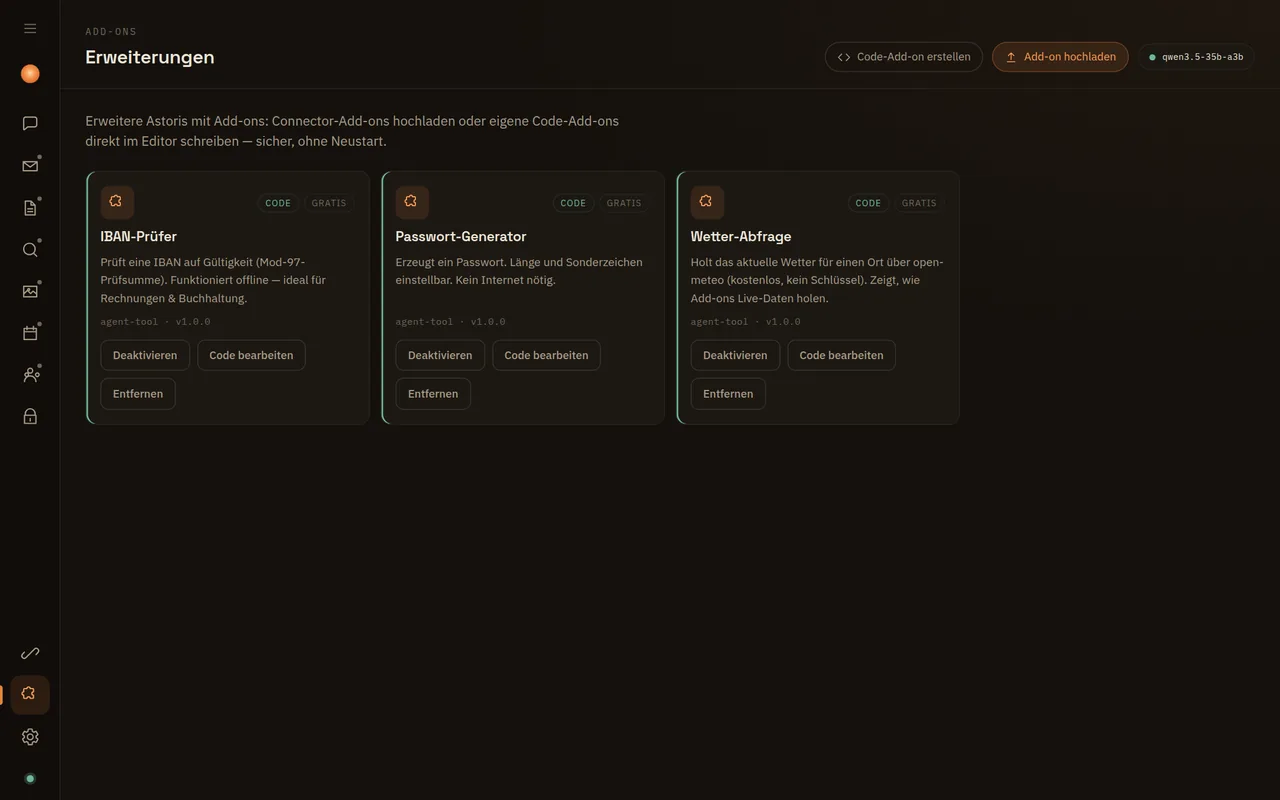
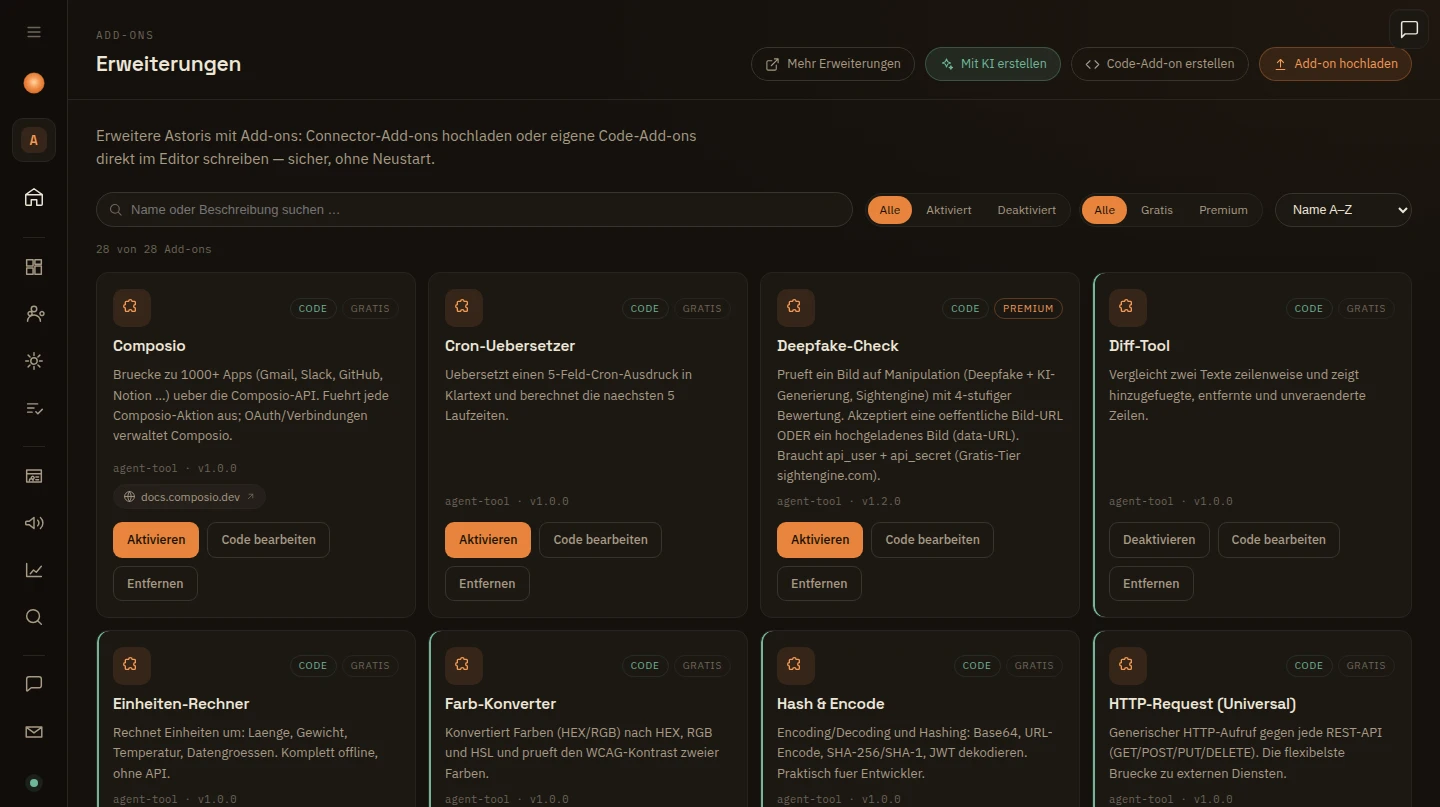
README: aktuelle Screenshots (Cockpit, Selbstentwicklung, Assistent, Erweiterungen)
Frische Screenshots mit aktuellem Stand: neues Cockpit- + Selbstentwicklungs-Bild
für die neuen Abschnitte, Chat- + Erweiterungen-Bild aktualisiert. Demo-Firma
bereinigt (Astoris Demo, Umlaute gefixt).

diff --git a/README.md b/README.md
@@ -79,6 +79,8 @@ Astoris ist nicht nur ein persönlicher Assistent, sondern ein **Betriebssystem 
 Du kannst **mehrere Firmen parallel** führen — jede mit eigenem Team aus KI-Agenten, eigenen Zielen,
 Kennzahlen und Gedächtnis. Zwischen ihnen schaltest du mit einem Klick um.
 
+<img src="docs/screenshot-cockpit.webp" width="100%" alt="Astoris Cockpit — Ziele, Kennzahlen & Agenten-Aktivität einer KI-gesteuerten Firma" />
+
 | Bereich | Status | Beschreibung |
 |---|---|---|
 | **Cockpit** | ✅ | Zentrale Firmen-Übersicht: **Ziele** (mit Metriken, Fortschritt, Unterzielen & Deadlines), Agenten-Aktivität, **Firmen-Gedächtnis** (kategorisiertes Wissen) und Aufgaben-Workflow |
@@ -128,6 +130,8 @@ sind kein Bezahl-Schalter für Grundfunktionen, sondern **zusätzliche** Fähigk
 - Übersicht & Download verfügbarer Add-ons: [astoris.org/erweiterungen](https://astoris.org/erweiterungen).
 
 #### Selbstentwicklung — die Firma erweitert sich selbst
+
+<img src="docs/screenshot-selbstentwicklung.webp" width="100%" alt="Astoris Selbstentwicklung — die KI schlägt ein selbst gebautes Add-on zur Freigabe vor (Allow/Deny)" />
 
 Im **Cockpit** kann deine KI-Firma anhand ihrer **Ziele** selbst erkennen, welche Fähigkeit ihr
 noch fehlt, das passende Add-on bauen, es in der Sandbox testen und dir als **Vorschlag** vorlegen.